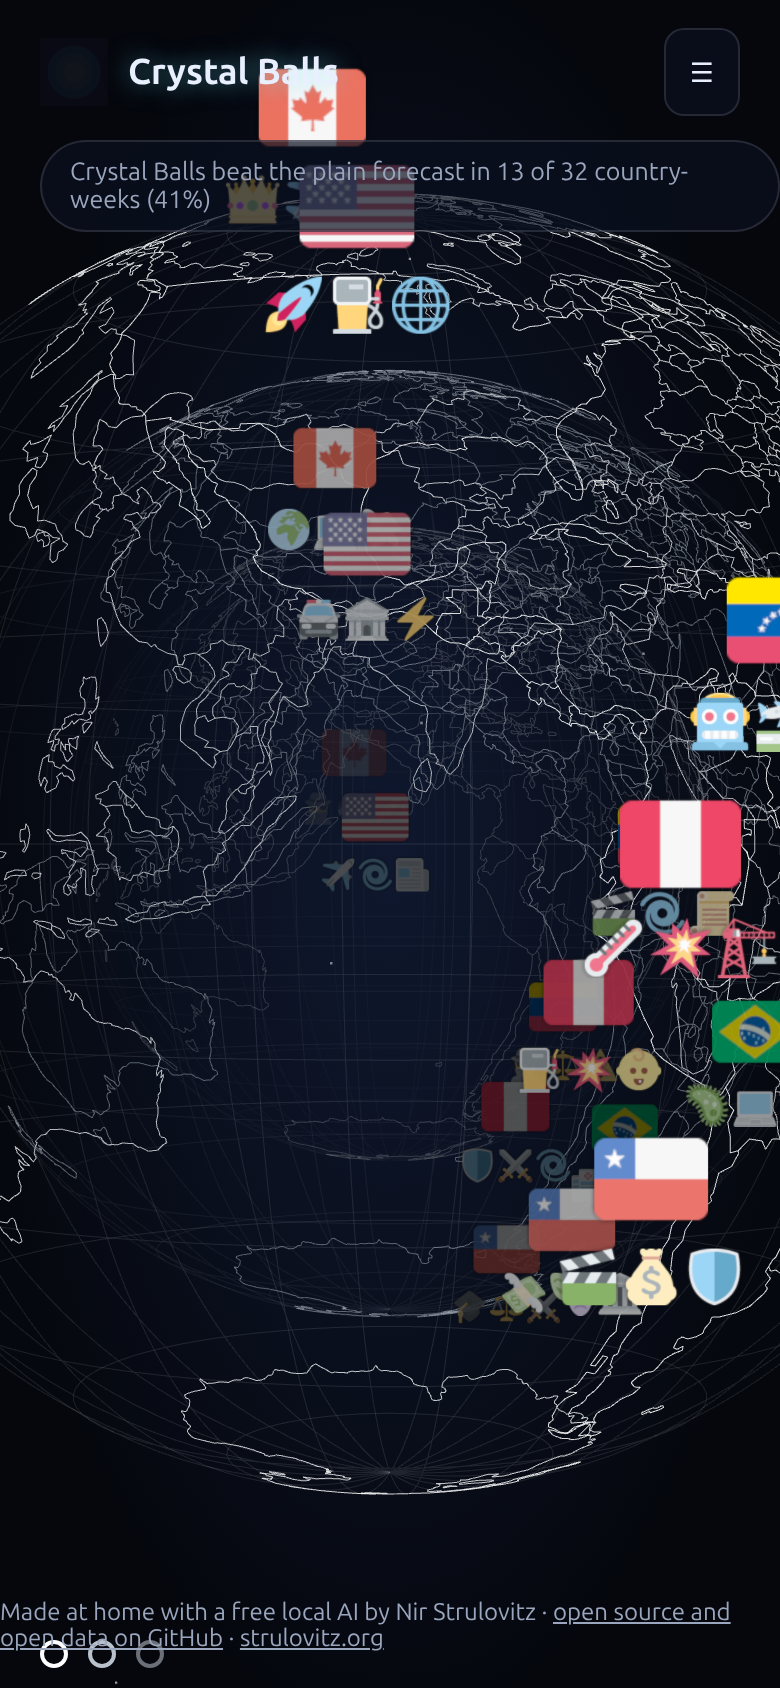
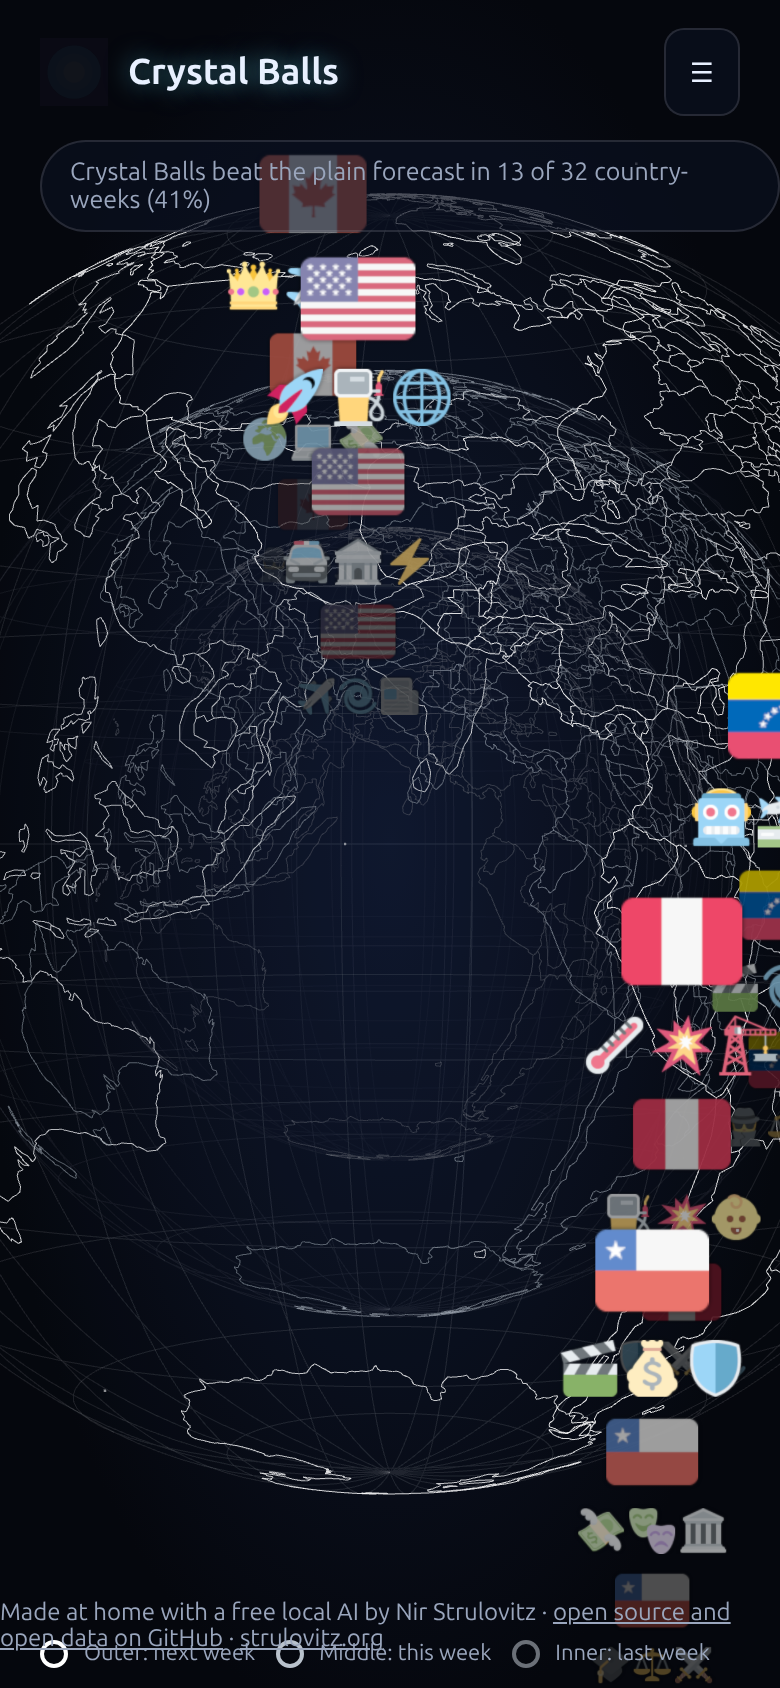
6.16: screen-space card column stacking fix (replaces sprite.center offsets), re-took screenshots

diff --git a/site/app.js b/site/app.js
@@ -14,7 +14,8 @@ let countriesMeta = [], countriesByCode = {}, vocabulary = [], vocabByEmoji = {}
 let indexData = null, scorecardData = null;
 let currentRoundId = null, previousRoundId = null, nextRoundId = null;
 let bundleR = null, bundleP = null, bundleNext = null; // bundleNext used for outcomes on R's statements
-let sprites = []; // { sprite, code, layer, anchor: Vector3 }
+let sprites = []; // { sprite, code, layer, anchor: Vector3 } — anchor is meaningful only for OUTER (Bible 6.16)
+let spritesByCountry = {}; // code -> { 0: entry, 1: entry, 2: entry }
 let connectorLine = null;
 let hoveredCode = null, selectedCode = null;
 let pointerDownPos = null, pointerMoved = false;
@@ -32,7 +33,7 @@ const RADIUS = { 2: 1.00, 1: 0.74, 0: 0.50 };
 const SPRITE_SIZE = { 2: [0.26, 0.235], 1: [0.21, 0.19], 0: [0.17, 0.154] };
 const SPRITE_COLOR = { 2: 0xffffff, 1: 0xaaaaaa, 0: 0x585858 };
 const HOVER_COLOR = 0xffffff;
-const SPRITE_CENTER_Y = { 2: 0.0, 1: 1.08, 0: 2.55 };
+const SPRITE_CENTER = 0.5; // Bible 6.16: all cards centered; middle/inner repositioned in screen space each frame.
 const RENDER_ORDER = { 0: 10, 1: 20, 2: 30 };
 
 // ---------------------------------------------------------------------
@@ -459,6 +460,7 @@ async function rebuildCards() {
     s.sprite.material.dispose();
   });
   sprites = [];
+  spritesByCountry = {};
   if (connectorLine) { globeGroup.remove(connectorLine); connectorLine = null; }
 
   // Preload every flag + emoji PNG we need for this round.
@@ -494,16 +496,20 @@ async function rebuildCards() {
       });
       const sprite = new THREE.Sprite(mat);
       sprite.scale.set(w, h, 1);
-      sprite.center.set(0.5, SPRITE_CENTER_Y[layer]);
+      sprite.center.set(SPRITE_CENTER, SPRITE_CENTER);
       sprite.renderOrder = RENDER_ORDER[layer];
 
-      const r = RADIUS[layer];
-      const anchor = latLngToVector3(country.lat, country.lng, r * 1.015);
+      // Bible 6.16: only the outer card gets a real 3D anchor on its own
+      // globe. Middle and inner start at the same local position and are
+      // repositioned every frame in screen space by updateCardColumns().
+      const anchor = latLngToVector3(country.lat, country.lng, RADIUS[LAYER.OUTER] * 1.015);
       sprite.position.copy(anchor);
       sprite.userData = { code: country.code, layer, anchor, baseColor: SPRITE_COLOR[layer] };
 
       globeGroup.add(sprite);
-      sprites.push({ sprite, code: country.code, layer, anchor });
+      const entry = { sprite, code: country.code, layer, anchor };
+      sprites.push(entry);
+      (spritesByCountry[country.code] = spritesByCountry[country.code] || {})[layer] = entry;
     }
   }
 }
@@ -515,44 +521,93 @@ function emojiToTwemoji(emoji) {
 }
 
 // ---------------------------------------------------------------------
-// Per-frame update: fading, hover, connector line (Bible 6.6, 6.7)
+// Per-frame update: screen-space column stacking, fading, hover,
+// connector line (Bible 6.16, 6.7)
 // ---------------------------------------------------------------------
+
+// Half-heights (world units) used for the vertical gaps between cards,
+// per Bible 6.16's formula.
+const GAP_MIDDLE = SPRITE_SIZE[2][1] * 0.5 + SPRITE_SIZE[1][1] * 0.5 + 0.012;
+const GAP_INNER = SPRITE_SIZE[1][1] * 0.5 + SPRITE_SIZE[0][1] * 0.5 + 0.012;
 
 function animate() {
   requestAnimationFrame(animate);
   controls.update();
-  updateSpriteOpacities();
+  updateCardColumns();
   renderer.render(scene, camera);
 }
 
-function updateSpriteOpacities() {
-  const camDir = camera.position.clone().normalize();
-  sprites.forEach(({ sprite, layer, anchor, code }) => {
-    const worldAnchor = anchor.clone().applyMatrix4(globeGroup.matrixWorld).normalize();
-    const d = worldAnchor.dot(camDir);
-    let visible, opacity;
-    if (layer === LAYER.OUTER) {
-      visible = d > 0.02;
-      opacity = clamp((d - 0.02) / 0.25, 0, 1);
-    } else if (layer === LAYER.MIDDLE) {
-      visible = d > 0.30;
-      opacity = clamp((d - 0.30) / 0.25, 0, 1) * 0.95;
-    } else {
-      visible = d > 0.45;
-      opacity = clamp((d - 0.45) / 0.25, 0, 1) * 0.90;
-    }
-    sprite.visible = visible;
+function worldToScreenScale(worldPoint) {
+  const p1 = worldPoint.clone().project(camera);
+  const offsetPoint = worldPoint.clone().add(camera.up.clone().normalize().multiplyScalar(0.01));
+  const p2 = offsetPoint.clone().project(camera);
+  const dyNdc = Math.abs(p2.y - p1.y);
+  const dyPx = (dyNdc / 2) * renderer.domElement.clientHeight;
+  return dyPx / 0.01; // screen pixels per world unit, at this depth
+}
 
-    const isHovered = (hoveredCode === code) || (selectedCode === code);
-    if (isHovered) {
-      sprite.material.opacity = 1;
-      sprite.material.color.setHex(HOVER_COLOR);
-    } else {
-      const dim = (hoveredCode || selectedCode) ? 0.3 : 1;
-      sprite.material.opacity = opacity * dim;
-      sprite.material.color.setHex(sprite.userData.baseColor);
+function applyLayerVisibility(entry, d) {
+  const { sprite, layer, code } = entry;
+  let visible, opacity;
+  if (layer === LAYER.OUTER) {
+    visible = d > 0.02;
+    opacity = clamp((d - 0.02) / 0.25, 0, 1);
+  } else if (layer === LAYER.MIDDLE) {
+    visible = d > 0.30;
+    opacity = clamp((d - 0.30) / 0.25, 0, 1) * 0.95;
+  } else {
+    visible = d > 0.45;
+    opacity = clamp((d - 0.45) / 0.25, 0, 1) * 0.90;
+  }
+  sprite.visible = visible;
+
+  const isHovered = (hoveredCode === code) || (selectedCode === code);
+  if (isHovered) {
+    sprite.material.opacity = 1;
+    sprite.material.color.setHex(HOVER_COLOR);
+  } else {
+    const dim = (hoveredCode || selectedCode) ? 0.3 : 1;
+    sprite.material.opacity = opacity * dim;
+    sprite.material.color.setHex(sprite.userData.baseColor);
+  }
+}
+
+function updateCardColumns() {
+  const camDir = camera.position.clone().normalize();
+  const invGlobeMatrix = globeGroup.matrixWorld.clone().invert();
+  const ndcPerPx = 2 / renderer.domElement.clientHeight;
+
+  for (const code in spritesByCountry) {
+    const group = spritesByCountry[code];
+    const outer = group[LAYER.OUTER];
+    if (!outer) continue; // no outer card for this country this round
+
+    // Visibility/fading direction d is always computed from the outer
+    // card's own 3D anchor, shared by all three layers (Bible 6.16).
+    const worldAnchorDir = outer.anchor.clone().applyMatrix4(globeGroup.matrixWorld).normalize();
+    const d = worldAnchorDir.dot(camDir);
+    applyLayerVisibility(outer, d);
+
+    const outerWorldPos = outer.sprite.position.clone().applyMatrix4(globeGroup.matrixWorld);
+    const ndc = outerWorldPos.clone().project(camera);
+    const pxPerWorld = worldToScreenScale(outerWorldPos);
+
+    const middle = group[LAYER.MIDDLE];
+    if (middle) {
+      const targetNdc = new THREE.Vector3(ndc.x, ndc.y - GAP_MIDDLE * pxPerWorld * ndcPerPx, ndc.z);
+      const worldPos = targetNdc.unproject(camera);
+      middle.sprite.position.copy(worldPos.applyMatrix4(invGlobeMatrix));
+      applyLayerVisibility(middle, d);
     }
-  });
+
+    const inner = group[LAYER.INNER];
+    if (inner) {
+      const targetNdc = new THREE.Vector3(ndc.x, ndc.y - (GAP_MIDDLE + GAP_INNER) * pxPerWorld * ndcPerPx, ndc.z);
+      const worldPos = targetNdc.unproject(camera);
+      inner.sprite.position.copy(worldPos.applyMatrix4(invGlobeMatrix));
+      applyLayerVisibility(inner, d);
+    }
+  }
 
   updateConnectorLine();
 }
@@ -561,7 +616,11 @@ function updateConnectorLine() {
   const activeCode = hoveredCode || selectedCode;
   if (connectorLine) { globeGroup.remove(connectorLine); connectorLine.geometry.dispose(); connectorLine.material.dispose(); connectorLine = null; }
   if (!activeCode) return;
-  const points = sprites.filter(s => s.code === activeCode).sort((a, b) => a.layer - b.layer).map(s => s.anchor);
+  const group = spritesByCountry[activeCode];
+  if (!group) return;
+  const points = [group[LAYER.OUTER], group[LAYER.MIDDLE], group[LAYER.INNER]]
+    .filter(Boolean)
+    .map(entry => entry.sprite.position);
   if (points.length < 2) return;
   const geom = new THREE.BufferGeometry().setFromPoints(points);
   const mat = new THREE.LineBasicMaterial({ color: 0x6ee7f9, transparent: true, opacity: 0.8 });
